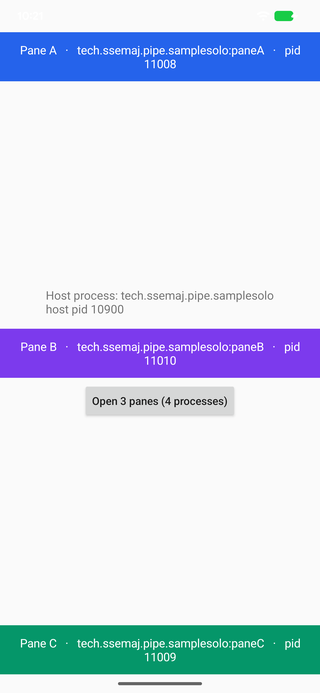
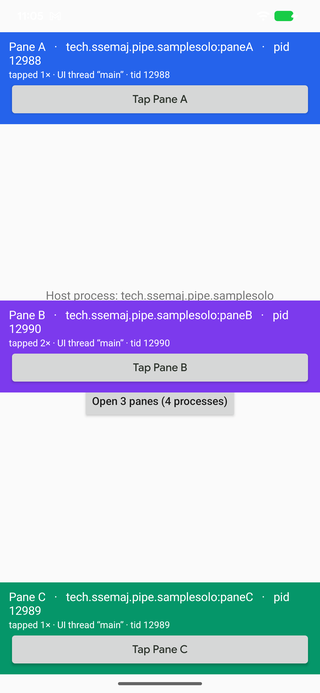
feat: interactive multi-pane (tiled, non-overlapping regions) + print UI thread/tid
Library: PaneSpec gains window geometry (gravity/widthPx/heightPx) + touchModal; addPane
sets FLAG_NOT_TOUCH_MODAL when touchModal=false, so a pane sized to a region only captures
touches within its bounds and passes the rest through. Defaults unchanged (full-screen,
touch-modal) — connected suite still 6/6. apiCheck regenerated.

sample-solo: RegionPaneService now sizes each band to its region (touchModal=false) so all
three are INDEPENDENTLY interactive, and prints each pane's UI-thread name + kernel tid.
Verified on Pixel 6 Pro: tapped A×1, B×2, C×1 — each updated on its own thread with distinct
tids (12988/12990/12989), same UID, four processes, one window. Two-process demo + host also
print UI thread/tid. Docs + screenshot updated.

Changed region(s): [[0.0, 0.8182, 1.0, 0.9697], [0.0, 0.4242, 1.0, 0.5758], [0.0, 0.0606, 1.0, 0.1818]]

diff --git a/sample-solo/src/main/java/tech/ssemaj/pipe/samplesolo/RegionPaneService.kt b/sample-solo/src/main/java/tech/ssemaj/pipe/samplesolo/RegionPaneService.kt
@@ -5,19 +5,23 @@ import android.graphics.Color
 import android.os.Process
 import android.view.Gravity
 import android.view.View
-import android.widget.FrameLayout
+import android.view.WindowManager
+import android.widget.Button
+import android.widget.LinearLayout
 import android.widget.TextView
 import tech.ssemaj.pipe.core.PipeRequest
 import tech.ssemaj.pipe.provider.HostHandle
 import tech.ssemaj.pipe.provider.PaneResult
+import tech.ssemaj.pipe.provider.PaneSpec
 import tech.ssemaj.pipe.provider.PipeContent
 import tech.ssemaj.pipe.provider.PipeProviderService
 
 /**
- * Experiment: N processes sharing one window. Each subclass runs in its **own** process and draws a
- * single coloured band into its transparent full-screen pane, anchored to [gravity]. Open all three
- * from the host and the bands compose in one host window — proving the host isn't limited to a single
- * provider process. (Only the top-most pane is the input target; this is a visual proof.)
+ * Experiment: N processes, each **independently interactive**, in one host window. Each subclass runs
+ * in its own process and draws a band anchored to [gravity]. The pane window is sized to the band and
+ * made non-touch-modal ([PaneSpec.touchModal] = false), so touches outside the band pass through to
+ * the panes/host behind it — every band's button works, not just the top one's. Each band prints its
+ * UI-thread name + kernel tid so you can see the threads (and processes) are genuinely distinct.
  */
 abstract class RegionPaneService : PipeProviderService() {
     abstract val label: String
@@ -25,22 +29,40 @@ abstract class RegionPaneService : PipeProviderService() {
     abstract val color: Int
 
     override suspend fun onOpenPane(request: PipeRequest, host: HostHandle): PaneResult {
-        val band = TextView(this).apply {
+        var taps = 0
+
+        val title = TextView(this).apply {
             text = "$label   ·   ${Application.getProcessName()}   ·   pid ${Process.myPid()}"
-            textSize = 15f
-            setTextColor(Color.WHITE)
+            textSize = 15f; setTextColor(Color.WHITE)
+        }
+        val status = TextView(this).apply {
+            text = "UI thread “${Thread.currentThread().name}” · tid ${Process.myTid()}"
+            textSize = 12f; setTextColor(Color.WHITE)
+        }
+        val button = Button(this).apply {
+            text = "Tap $label"
+            setOnClickListener {
+                taps++
+                status.text = "tapped ${taps}× · UI thread “${Thread.currentThread().name}” · tid ${Process.myTid()}"
+            }
+        }
+        val band = LinearLayout(this).apply {
+            orientation = LinearLayout.VERTICAL
+            gravity = Gravity.CENTER_HORIZONTAL
             setBackgroundColor(color)
-            setPadding(48, 44, 48, 44)
-            this.gravity = Gravity.CENTER
+            setPadding(40, 28, 40, 28)
+            addView(title); addView(status); addView(button)
         }
-        val root = FrameLayout(this).apply {
-            addView(band, FrameLayout.LayoutParams(
-                FrameLayout.LayoutParams.MATCH_PARENT,
-                FrameLayout.LayoutParams.WRAP_CONTENT,
-                this@RegionPaneService.gravity,
-            ))
-        }
-        return PaneResult.Content(object : PipeContent { override val view: View = root })
+
+        // Window sized to this band, non-touch-modal → independently interactive; touches elsewhere
+        // fall through to the other panes / the host.
+        val spec = PaneSpec(
+            focusable = false,
+            touchModal = false,
+            gravity = gravity,
+            heightPx = WindowManager.LayoutParams.WRAP_CONTENT,
+        )
+        return PaneResult.Content(object : PipeContent { override val view: View = band }, spec)
     }
 }
 
@@ -49,7 +71,7 @@ class PaneServiceA : RegionPaneService() {
 }
 
 class PaneServiceB : RegionPaneService() {
-    override val label = "Pane B"; override val gravity = Gravity.CENTER; override val color = Color.parseColor("#7C3AED")
+    override val label = "Pane B"; override val gravity = Gravity.CENTER_VERTICAL; override val color = Color.parseColor("#7C3AED")
 }
 
 class PaneServiceC : RegionPaneService() {

diff --git a/pipe/src/main/java/tech/ssemaj/pipe/provider/PaneSpec.kt b/pipe/src/main/java/tech/ssemaj/pipe/provider/PaneSpec.kt
@@ -1,20 +1,34 @@
 package tech.ssemaj.pipe.provider
 
+import android.view.Gravity
+import android.view.WindowManager
+
 /**
- * Window-level properties of the pane — only the things the provider genuinely *can't* set from its
- * own content. The pane is always a full-screen window parented to the host's window token; a
- * dialog, a bottom sheet, a scrim, rounded corners are **not** modelled here — the provider draws
- * them inside the (transparent) full-screen canvas and animates them itself (Compose or View
- * animations).
+ * Window-level properties of the pane — the things the provider can't set from its own content.
+ * The default is a full-screen transparent, focusable, touch-modal window (the common case).
  *
- * Security note: a transparent pane leaves host content visible behind the provider's own drawing
- * while still being touch-modal — a larger surface than an opaque takeover. Only hand a provider
- * this inside a trusted, signing-verified app family.
+ * The geometry fields ([gravity]/[widthPx]/[heightPx]) plus [touchModal] exist for **tiling /
+ * multi-pane**: a window sized to a region, with `touchModal = false`, only consumes touches within
+ * its own bounds and lets touches outside pass through to whatever is behind it (the host, or
+ * another pane). Several such non-overlapping panes are each independently interactive. This is
+ * *not* a "dialog" API — a dialog is still just something the provider draws inside a full-screen
+ * pane; this is genuine window geometry.
+ *
+ * Security note: a transparent or partial pane leaves host content visible while still capturing
+ * input over its bounds — only hand a provider this inside a trusted, signing-verified app family.
  */
 data class PaneSpec(
-    /** Translucent pixels, so the provider can draw partial UI with the host visible behind it.
-     *  `false` = a fully opaque full-screen window. */
+    /** Translucent pixels, so the provider can draw partial UI with the host visible behind it. */
     val translucent: Boolean = true,
-    /** Focusable, so the pane is an IME/key target. Only turn off for a passive, non-interactive pane. */
+    /** Focusable, so the pane is an IME/key target. `false` also implies non-touch-modal. */
     val focusable: Boolean = true,
+    /**
+     * `true` (default): the pane captures all touches over the screen. `false`
+     * (`FLAG_NOT_TOUCH_MODAL`): it captures touches only within its own bounds and passes the rest
+     * through to whatever is behind — the basis for independently-interactive, non-overlapping panes.
+     */
+    val touchModal: Boolean = true,
+    val gravity: Int = Gravity.TOP or Gravity.START,
+    val widthPx: Int = WindowManager.LayoutParams.MATCH_PARENT,
+    val heightPx: Int = WindowManager.LayoutParams.MATCH_PARENT,
 )

diff --git a/pipe/src/main/java/tech/ssemaj/pipe/provider/PaneWindow.kt b/pipe/src/main/java/tech/ssemaj/pipe/provider/PaneWindow.kt
@@ -2,12 +2,11 @@ package tech.ssemaj.pipe.provider
 
 import android.graphics.PixelFormat
 import android.os.IBinder
-import android.view.Gravity
 import android.view.View
 import android.view.WindowManager
 
 /**
- * Adds [root] as the pane's full-screen window, parented to the host's window token, per [spec].
+ * Adds [root] as the pane's window, parented to the host's window token, per [spec].
  *
  * This is where Pipe's whole mechanism lives: a `TYPE_APPLICATION_PANEL` window whose
  * [WindowManager.LayoutParams.token] is the host activity's window token ([hostToken]) becomes a
@@ -15,21 +14,24 @@ import android.view.WindowManager
  * therefore a first-class focus/IME/input target on every API from 30 up, with no
  * `SurfaceControlViewHost` and no `@hide` APIs.
  *
- * The window is always full-screen; [spec] only decides opacity ([PaneSpec.translucent], default
- * transparent) and focusability. Any dialog/sheet shape is the provider's own drawing inside this
- * canvas. `SOFT_INPUT_ADJUST_RESIZE` keeps pane editors visible above the soft keyboard.
+ * By default the window is full-screen, focusable, translucent, and touch-modal; [spec] can shrink
+ * it to a region and make it non-touch-modal (for tiling / multi-pane). `SOFT_INPUT_ADJUST_RESIZE`
+ * keeps pane editors visible above the soft keyboard.
  */
 internal fun WindowManager.addPane(root: View, hostToken: IBinder, spec: PaneSpec) {
-    val flags = if (spec.focusable) 0 else WindowManager.LayoutParams.FLAG_NOT_FOCUSABLE
+    var flags = 0
+    if (!spec.focusable) flags = flags or WindowManager.LayoutParams.FLAG_NOT_FOCUSABLE
+    if (!spec.touchModal) flags = flags or WindowManager.LayoutParams.FLAG_NOT_TOUCH_MODAL
+
     val params = WindowManager.LayoutParams(
-        WindowManager.LayoutParams.MATCH_PARENT,
-        WindowManager.LayoutParams.MATCH_PARENT,
+        spec.widthPx,
+        spec.heightPx,
         WindowManager.LayoutParams.TYPE_APPLICATION_PANEL,
         flags,
         if (spec.translucent) PixelFormat.TRANSLUCENT else PixelFormat.OPAQUE,
     ).apply {
         token = hostToken
-        gravity = Gravity.TOP or Gravity.START
+        gravity = spec.gravity
         softInputMode = WindowManager.LayoutParams.SOFT_INPUT_ADJUST_RESIZE
     }
     addView(root, params)

diff --git a/sample-solo/src/main/java/tech/ssemaj/pipe/samplesolo/PaneService.kt b/sample-solo/src/main/java/tech/ssemaj/pipe/samplesolo/PaneService.kt
@@ -23,6 +23,7 @@ class PaneService : PipeProviderService() {
     override suspend fun onOpenPane(request: PipeRequest, host: HostHandle): PaneResult {
         val hostPid = request.extras.getInt("hostPid", -1)
         val hostProc = request.extras.getString("hostProc") ?: "?"
+        val hostTid = request.extras.getInt("hostTid", -1)
 
         fun line(text: String, sizeSp: Float, color: Int) = TextView(this).apply {
             this.text = text; textSize = sizeSp; setTextColor(color)
@@ -36,6 +37,7 @@ class PaneService : PipeProviderService() {
             addView(line("Pane rendered from a separate process", 20f, Color.WHITE))
             addView(line("\nHost   ·  $hostProc\n            pid $hostPid", 15f, Color.parseColor("#58A6FF")))
             addView(line("\nPane   ·  ${Application.getProcessName()}\n            pid ${Process.myPid()}", 15f, Color.parseColor("#A371F7")))
+            addView(line("\nUI threads · host “main” tid $hostTid  →  pane “${Thread.currentThread().name}” tid ${Process.myTid()}", 13f, Color.parseColor("#DBE9FF")))
             addView(line("\nSame app · same UID (${Process.myUid()}) · two processes · one window", 13f, Color.parseColor("#8B98A5")))
             addView(Button(this@PaneService).apply { text = "Close"; setOnClickListener { host.close() } })
         }

diff --git a/sample-solo/src/main/java/tech/ssemaj/pipe/samplesolo/MainActivity.kt b/sample-solo/src/main/java/tech/ssemaj/pipe/samplesolo/MainActivity.kt
@@ -25,12 +25,14 @@ class MainActivity : AppCompatActivity() {
         super.onCreate(savedInstanceState)
         setContentView(R.layout.activity_main)
         val info = findViewById<TextView>(R.id.host_info)
-        info.text = "Host process: ${Application.getProcessName()}\nhost pid ${Process.myPid()}"
+        info.text = "Host process: ${Application.getProcessName()}\n" +
+            "host pid ${Process.myPid()} · UI thread “${Thread.currentThread().name}” tid ${Process.myTid()}"
 
         findViewById<Button>(R.id.open).setOnClickListener {
             val extras = Bundle().apply {
                 putInt("hostPid", Process.myPid())
                 putString("hostProc", Application.getProcessName())
+                putInt("hostTid", Process.myTid())
             }
             PipeFullScreen.open(
                 activity = this,

diff --git a/pipe/src/main/java/tech/ssemaj/pipe/provider/PipeProviderService.kt b/pipe/src/main/java/tech/ssemaj/pipe/provider/PipeProviderService.kt
@@ -111,9 +111,10 @@ abstract class PipeProviderService : Service() {
     ) {
         val content = result.content
         val hostBinder = hostChannel.asBinder()
-        val match = FrameLayout.LayoutParams.MATCH_PARENT
+        // Fill a full-screen (MATCH) window; wrap a sized (region) window to its content.
+        fun fit(v: Int) = if (v == WindowManager.LayoutParams.MATCH_PARENT) v else FrameLayout.LayoutParams.WRAP_CONTENT
         val root = PaneRoot(this).apply {
-            addView(content.view, FrameLayout.LayoutParams(match, match))
+            addView(content.view, FrameLayout.LayoutParams(fit(result.spec.widthPx), fit(result.spec.heightPx)))
         }
         val windowManager = getSystemService(WindowManager::class.java)
         windowManager.addPane(root, spec.hostToken, result.spec)

diff --git a/ARCHITECTURE.md b/ARCHITECTURE.md
@@ -177,7 +177,7 @@ flowchart LR
 
 Nothing in the model requires host and provider to be *different apps*. Give the provider `Service` its own process (`android:process=":pane"` in the manifest) and point the host at its own component (`ProviderComponent(packageName, "$packageName.PaneService")`), and you get the same thing **within a single app**: the pane runs in a second process — its own heap, main-thread Looper, and crash domain — rendered in the host's window. Because both processes share the app's UID, the window-token handoff and binder channel work if anything more freely than cross-app (no cross-UID window checks), and the `sameSigningKey` gate is trivially satisfied. This is *in-app process isolation for UI* — the pattern for running a heavy or risky component (WebView, SDK, ML/native view, plugin) off your main process. The provider service can be `exported="false"`, since it's bound by explicit component from inside the app. See `:sample-solo` (verified on device: host pid ≠ pane pid, same UID, one window).
 
-Nor is a host limited to a single provider. Each `PipeFullScreen.open` adds an independent child window to the host's window token, so a host can open several panes — from several processes — at once; with transparent panes they composite into one surface (`:sample-solo`'s "Open 3 panes" runs host + three `:pane*` processes = four processes, three provider windows in one host window). Because the panes are full-screen and touch-modal, only the top-most is the input target — independent *interactive* multi-pane would need non-overlapping touch regions or `FLAG_NOT_TOUCH_MODAL`; as a process/window model, though, N processes rendering into one window is unrestricted.
+Nor is a host limited to a single provider. Each `PipeFullScreen.open` adds an independent child window to the host's window token, so a host can open several panes — from several processes — at once; with transparent panes they composite into one surface. By default panes are full-screen and touch-modal, so only the top-most takes input — but sizing each pane to a region (`PaneSpec.gravity`/`heightPx`) and setting `PaneSpec.touchModal = false` (`FLAG_NOT_TOUCH_MODAL`, so touches outside a pane's bounds fall through) makes them **tile**: each pane is independently interactive, each on its own process's UI thread. `:sample-solo`'s "Open 3 panes" does exactly this — host + three `:pane*` processes = four processes, three interactive bands in one host window, each with a distinct kernel thread id. N processes rendering into one window is unrestricted.
 
 ---
 

diff --git a/README.md b/README.md
@@ -126,11 +126,9 @@ Nothing else changes: same UID, so the window-token handoff and binder channel j
 
 The [`:sample-solo`](sample-solo) module demonstrates it — one Activity opening a pane against its own `:pane`-process service. Verified on a Pixel 6 Pro: host pid ≠ pane pid, same UID, one window.
 
-And it isn't limited to two. A host can open **several panes, each from its own process** — they're separate child windows of the host's window, so with transparent panes they composite together. `:sample-solo`'s *"Open 3 panes"* spins up host + `:paneA` + `:paneB` + `:paneC` — **four processes, three provider windows in one host window** (the host shows through the gaps):
+And it isn't limited to two. A host can open **several panes, each from its own process** — each is a separate child window of the host's window token. Size each pane to a region and mark it non-touch-modal — `PaneSpec(touchModal = false, gravity = …, heightPx = …)` — and they **tile**: every pane is *independently interactive* (touches outside a pane's bounds fall through to the ones behind), each running on its **own UI thread**. `:sample-solo`'s *"Open 3 panes"* spins up host + `:paneA` + `:paneB` + `:paneC` — **four processes, three interactive bands in one host window**. Below, each band was tapped separately (A×1, B×2, C×1) and each shows a distinct kernel thread id — proof of separate processes *and* separate UI threads:
 
-<p align="center"><img src="docs/media/sample-solo-multi.png" width="300" alt="Four processes on a Pixel 6 Pro: three provider panes (blue :paneA, purple :paneB, green :paneC) each from its own process composited into the single host window, with the host visible between them"></p>
-
-Caveat: full-screen panes are touch-modal, so only the top-most one is the input target — independent *interactive* multi-pane would need non-overlapping touch regions. As a process/window-sharing model, though, there's no cap on how many processes render into one window.
+<p align="center"><img src="docs/media/sample-solo-multi.png" width="320" alt="Four processes on a Pixel 6 Pro: three interactive provider bands (blue :paneA tid 12988, purple :paneB tid 12990, green :paneC tid 12989), each independently tapped, composited into one host window with the host showing through the gaps"></p>
 
 ## Trust & authorization
 
